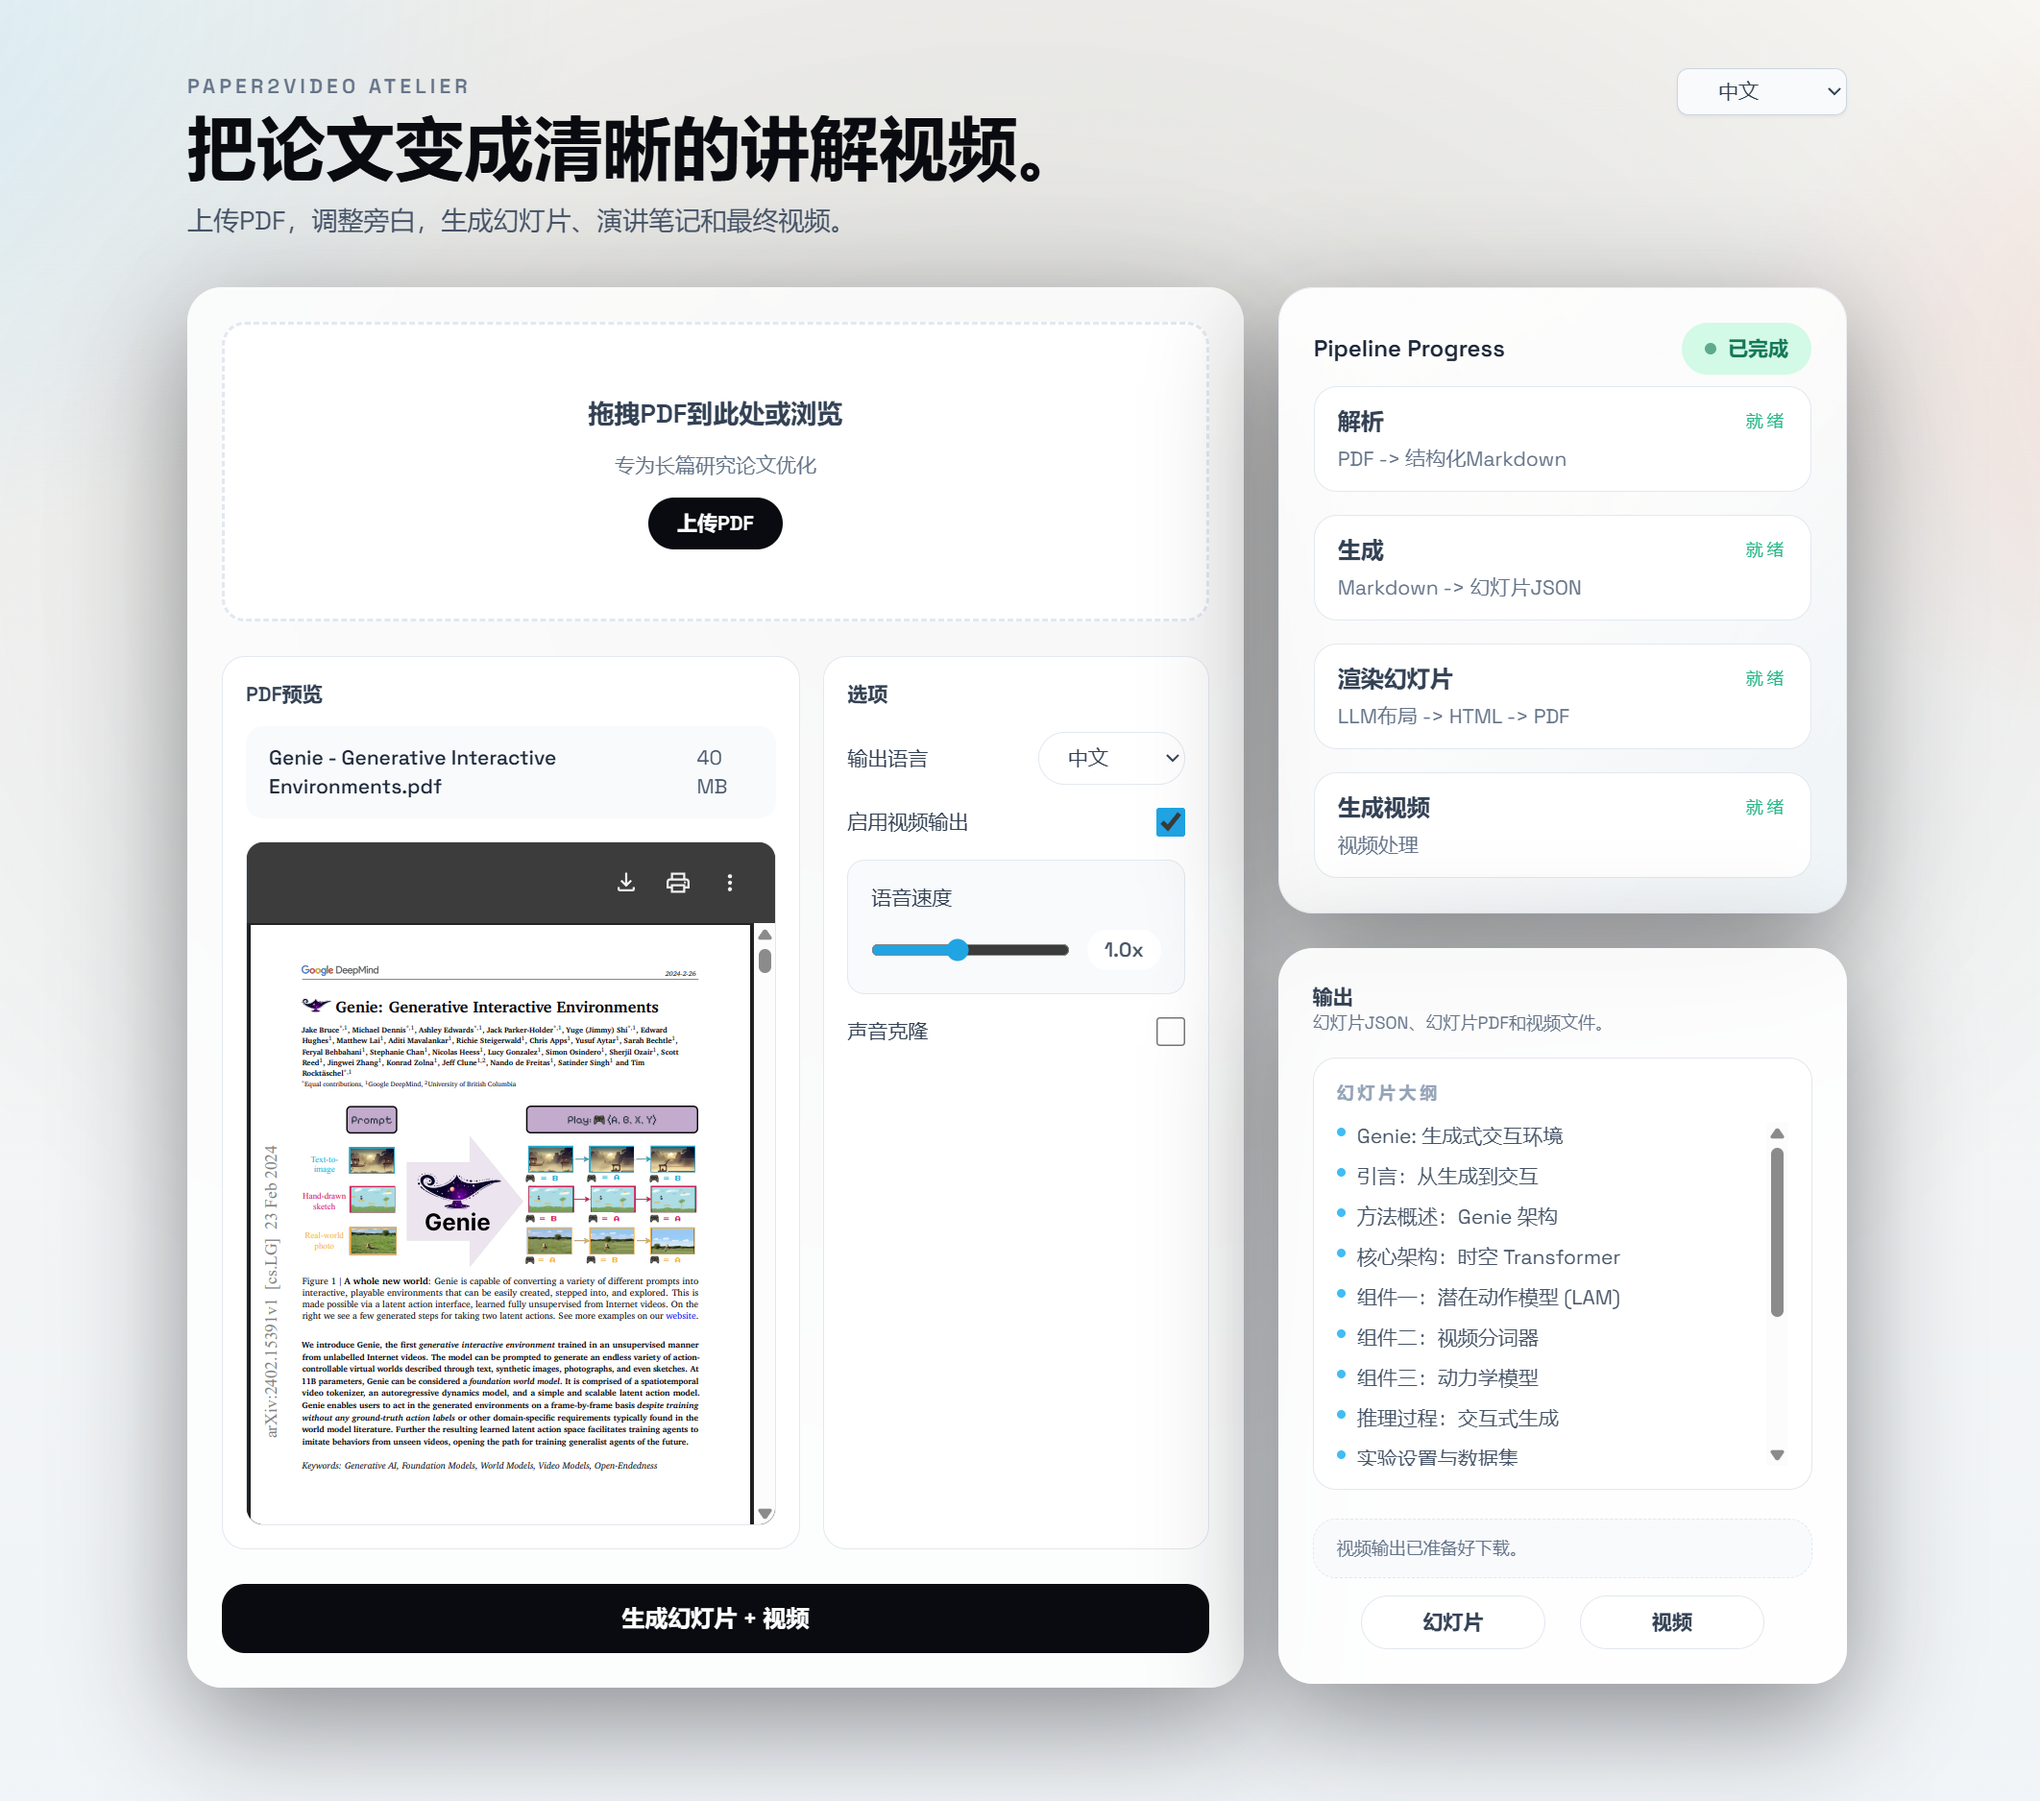
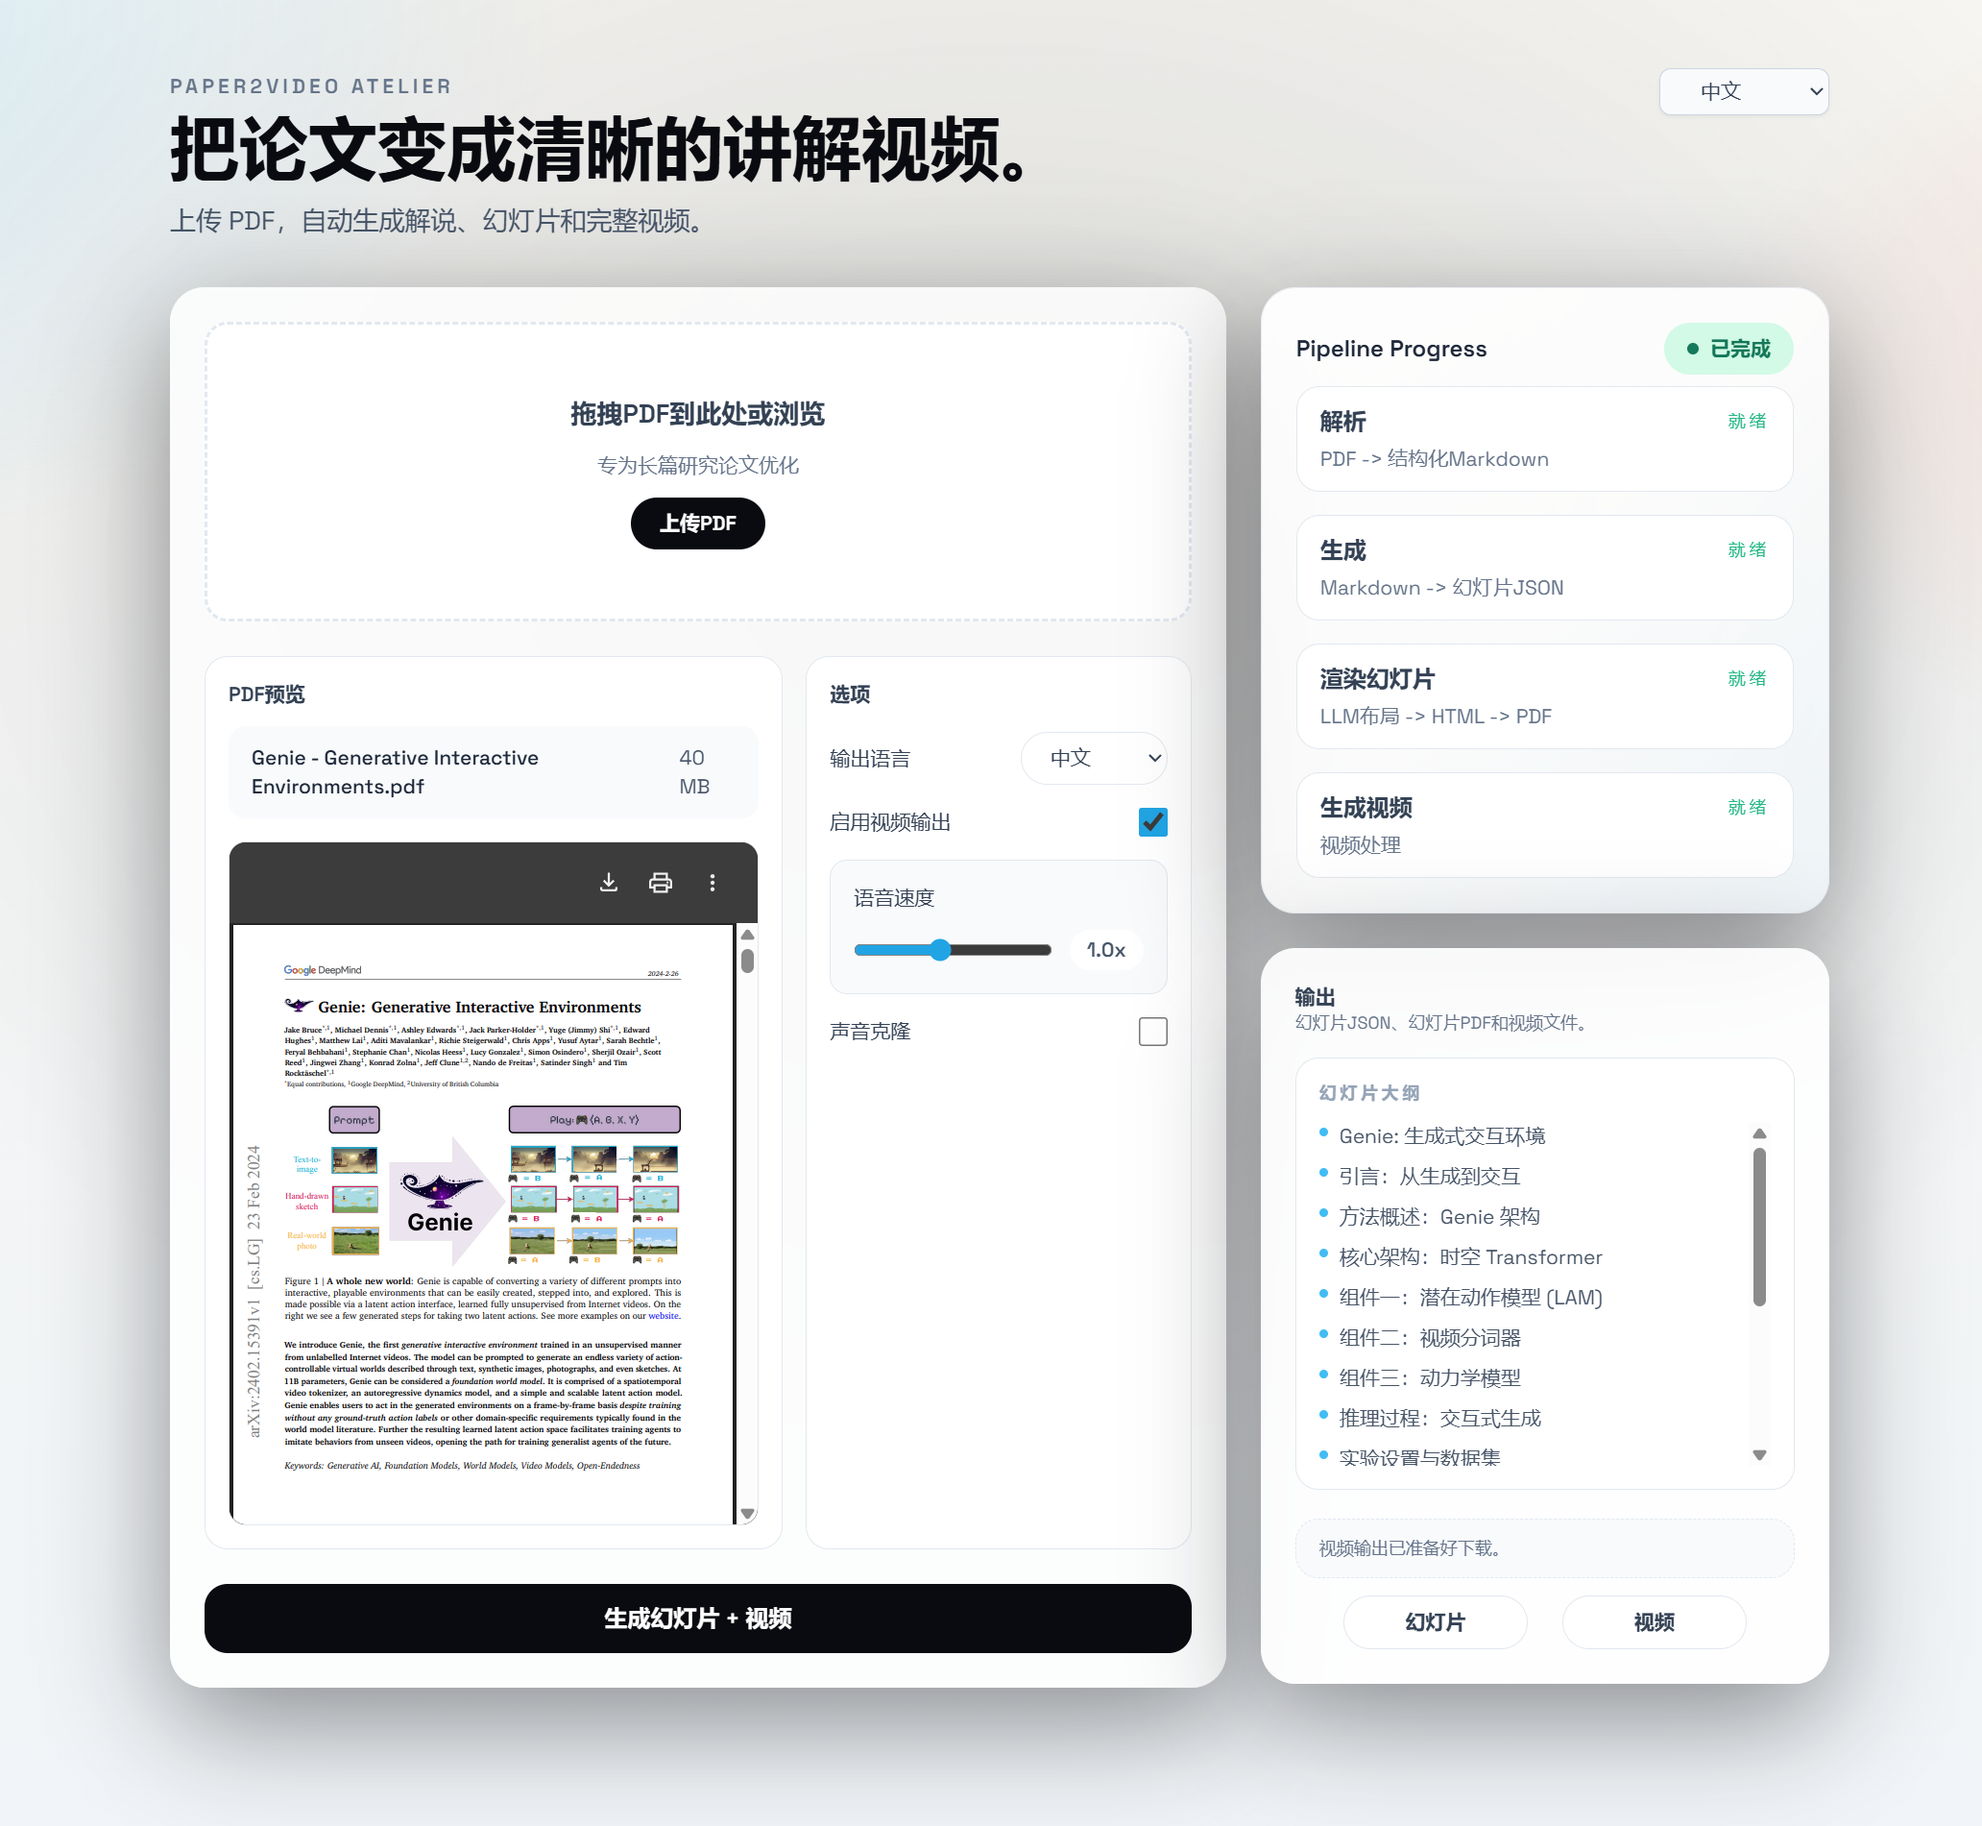
update UI texts

diff --git a/app/page.tsx b/app/page.tsx
@@ -16,7 +16,7 @@ const formatBytes = (value: number) => {
 const translations = {
   en: {
     title: 'Turn papers into clear explainer videos.',
-    subtitle: 'Upload a PDF, tune your narration, and generate slides, speaker notes, and a final video.',
+    subtitle: 'Upload a PDF — narration, slides, and video are generated automatically.',
     dragText: 'Drag a PDF here or browse',
     dragSubtext: 'Optimized for long-form research papers',
     uploadBtn: 'Upload PDF',
@@ -63,7 +63,7 @@ const translations = {
   },
   zh: {
     title: '把论文变成清晰的讲解视频。',
-    subtitle: '上传PDF，调整旁白，生成幻灯片、演讲笔记和最终视频。',
+    subtitle: '上传 PDF，自动生成解说、幻灯片和完整视频。',
     dragText: '拖拽PDF到此处或浏览',
     dragSubtext: '专为长篇研究论文优化',
     uploadBtn: '上传PDF',
